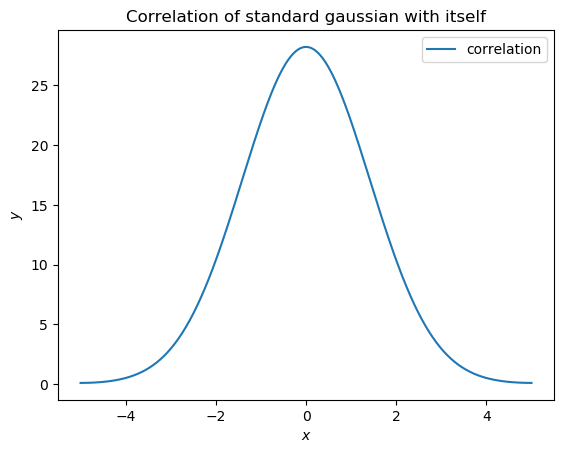
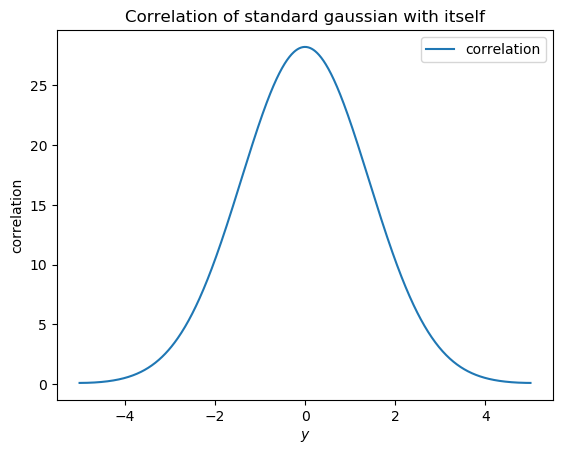
changed graph labelling

diff --git a/ps5/problem2.py b/ps5/problem2.py
@@ -36,8 +36,8 @@ if __name__ == '__main__':
 
     # Here we plot the correlation and save it to 'gauss_corr.png'
     plt.plot(x, corr, label="correlation")
-    plt.xlabel(r"$x$")
-    plt.ylabel(r"$y$")
+    plt.xlabel(r"$y$")
+    plt.ylabel(r"correlation")
     plt.title("Correlation of standard gaussian with itself")
     plt.legend()
     plt.savefig('gauss_corr.png', bbox_inches='tight')
